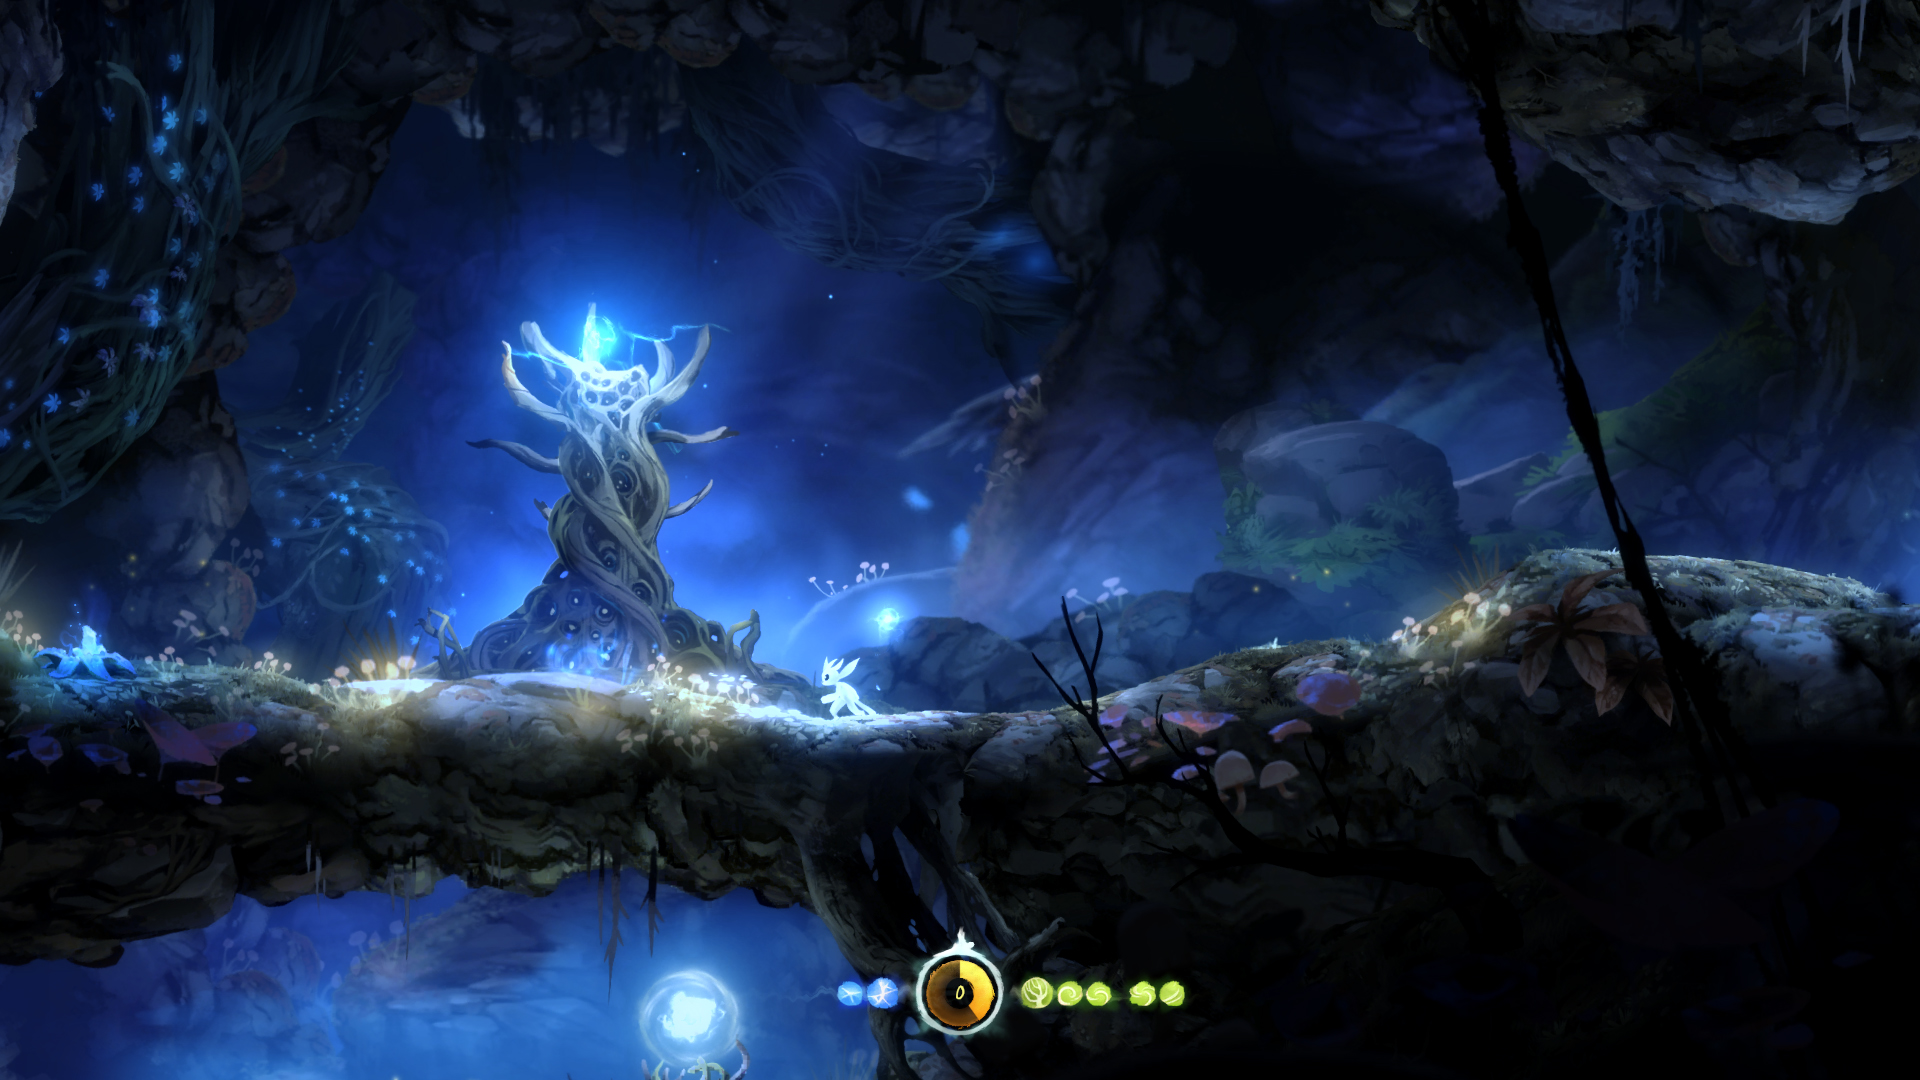
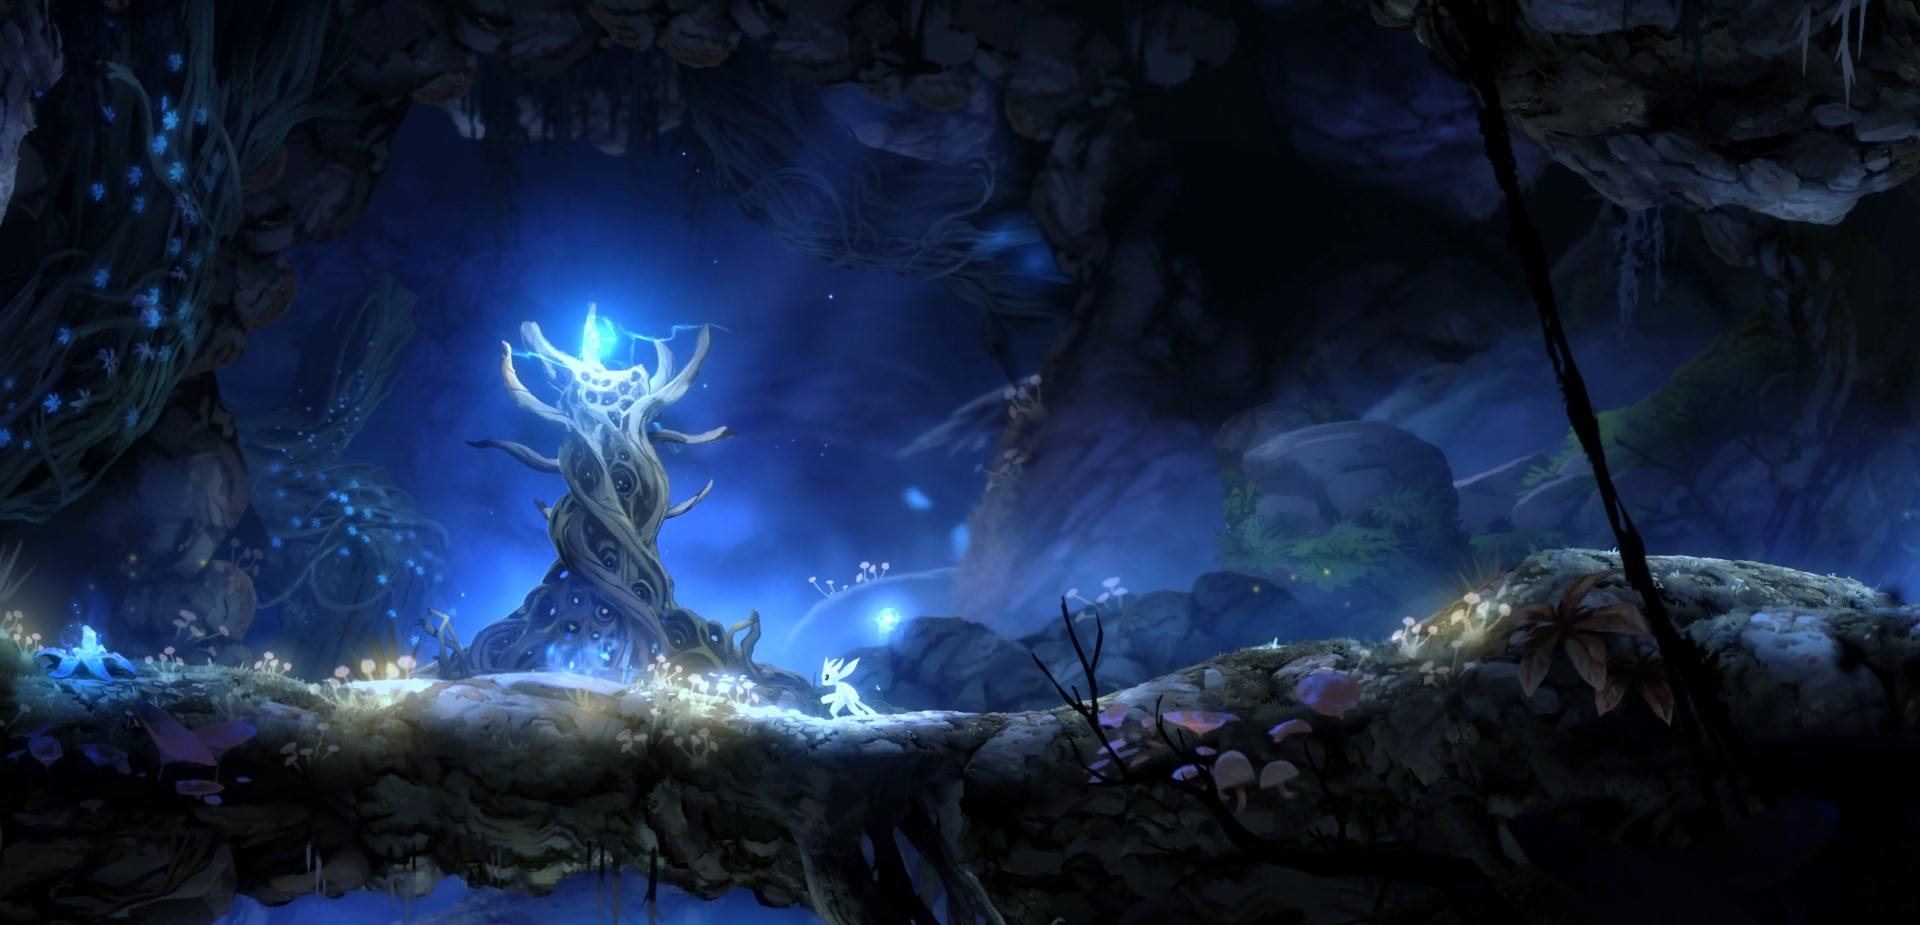
changes!

diff --git a/Sarth-website/public/css/welcome.css b/Sarth-website/public/css/welcome.css
@@ -6,10 +6,11 @@ body {
 
 .body-bg {
   background-color: #140b3a;
+  opacity: 0.8;
 }
 
 .bg-img {
-  background-image: url(../images/homepage.jpg);
+  background-image: url(../images/homepagecrop.jpg);
   background-repeat: no-repeat;
   background-size: cover;
   background-position: center;
@@ -22,7 +23,7 @@ body {
 .navbar-brand {
     color: #fff;
     cursor: pointer;
-}
+} 
 .nav-link {
     margin-right: 1em !important;
     border-bottom:  2px solid transparent;
@@ -35,9 +36,7 @@ body {
 
 .navbar-nav .nav-item {
     padding-right: 5rem;
-}
-
-
+} 
 
 /*                 EXP CAROUSEL                */
 

diff --git a/Sarth-website/resources/views/welcome.blade.php b/Sarth-website/resources/views/welcome.blade.php
@@ -1,107 +1,108 @@
-@extends('layouts.main')
 
-<!-- <link rel="stylesheet" type="text/css" href="{{ asset('../css/css/home.css') }}"> -->
+
 <link rel="stylesheet" href="{{ asset('css/welcome.css') }}">
-
+@extends('layouts.main')
 @section('pageInfo')
-    
 
 <div class="content">
-    <div class="title">
-        <h1>Home!</h1>
+    <div class="bg-img">
+        <br />
+        <br />
+        <main role="main" class="col-md-5 p-lg-5 mx-auto text-center">
+            <h1 style="color: white; font-size:3vw;">Welcome to Sarth!</h1>
+            <p class="lead" style="color: white; font-size: 1.5vw;">Sarth is a game store website, suited to game lovers
+                everywhere!
+                Explore our range
+                of games by clicking the button below.
+            </p>
+            <p class="lead" style="color: white;">
+                <a href="#" onclick="hello()" class="btn btn-lg btn-secondary"
+                style="color: #65b0ff; background-color:white">Shop Now!</a>
+            </p>
+        </main>
+        <div class="body-bg">
+            <div class="featured-products" style="color: white; font-weight: bold; text-align: center;">
+                <br />
+                <h5>Featured Games:</h5>
+            </div>
+            <br />
+            <div id="myCarousel" class="carousel slide" data-bs-ride="carousel">
+                <div class="carousel-inner">
+                    <div class="carousel-item active">
+                        <div class="row" style = "width: 80%; margin: auto;">
+                            <div class="col text-center">
+                                <svg class="fortnite-img" width="140" height="140" xmlns="http://www.w3.org/2000/svg" role="img"></svg>
+                                <h3 class="fw-normal" style="color: white;">Fortnite</h3>
+                                <p>A free-to-play Battle Royale game with numerous game modes for all gamer.</p>
+                            </div>
+                            <div class="col text-center">
+                                <svg class="valorant-img" width="140" height="140" xmlns="http://www.w3.org/2000/svg" role="img"></svg>
+                                <h3 class="fw-normal" style="color: white;">Valorant</h3>
+                                <p>Character-based tactical FPS where precise gunplay meets unique agent abilities.</p>
+                            </div>
+                            <div class="col text-center">
+                                <svg class="overwatch-img" width="140" height="140" xmlns="http://www.w3.org/2000/svg" role="img"></svg>
+                                <h3 class="fw-normal" style="color: white;">Overwatch</h3>
+                                <p>A free-to-play, team-based action game set in the optimistic future.</p>
+                            </div>
+                        </div>
+                    </div>
+                    <div class="carousel-item">
+                        <div class="row" style = "width: 80%; margin: auto;">
+                            <div class="col text-center">
+                                <svg class="lol-img" width="140" height="140" xmlns="http://www.w3.org/2000/svg" role="img"></svg>
+                                <h3 class="fw-normal" style="color: white;">League of Legends</h3>
+                                <p>A team-based multiplayer online battle arena video game.</p>
+                            </div>
+                            <div class="col text-center">
+                                <svg class="fallguys-img" width="140" height="140" xmlns="http://www.w3.org/2000/svg" role="img"></svg>
+                                <h3 class="fw-normal" style="color: white;">Fall Guys</h3>
+                                <p>A free-to-play platform battle royale game where you compete in a series of minigames.</p>
+                            </div>
+                            <div class="col text-center">
+                                <svg class="rocketleague-img" width="140" height="140" xmlns="http://www.w3.org/2000/svg" role="img"></svg>
+                                <h3 class="fw-normal" style="color: white;">Rocket League</h3>
+                                <p>A vehicular, arcade-style soccer game.</p>
+                            </div>
+                        </div>
+                    </div>
+                    <div class="carousel-item">
+                        <div class="row" style = "width: 80%; margin: auto;">
+                            <div class="col text-center">
+                                <svg class="tombraider-img" width="140" height="140" xmlns="http://www.w3.org/2000/svg" role="img"></svg>        
+                                <h3 class="fw-normal" style="color: white;">Shadow of the Tomb Raider</h3>
+                                <p>Action-adventure, story based video game following Lara Croft's expeditions in South America.</p>
+                            </div>
+                            <div class="col text-center">
+                                <svg class="cod-img" width="140" height="140" xmlns="http://www.w3.org/2000/svg" role="img"></svg>
+                                <h3 class="fw-normal" style="color: white;">Call of Duty</h3>
+                                <p>A first-person shooter video game franchise, simulating arms warfare of World War II.</p>
+                            </div>
+                            <div class="col text-center">
+                                <svg class="darksouls-img" width="140" height="140" xmlns="http://www.w3.org/2000/svg" role="img"></svg>
+                                <h3 class="fw-normal" style="color: white;">Dark Souls</h3>
+                                <p>An action-based roleplaying video game franchise, focused on dark fantasy lore.</p>
+                            </div>
+                        </div>
+                    </div>
+                </div>
+                <button class="carousel-control-prev" type="button" data-bs-target="#myCarousel" data-bs-slide="prev" style = "padding-bottom: 90px; background-color: transparent; border-color: transparent;">
+                    <span class="carousel-control-prev-icon" aria-hidden="true"></span>
+                    <span class="visually-hidden"></span>
+                </button>
+                <button class="carousel-control-next" type="button" data-bs-target="#myCarousel" data-bs-slide="next" style = "padding-bottom: 90px; background-color: transparent; border-color: transparent;">
+                    <span class="carousel-control-next-icon" aria-hidden="true"></span>
+                    <span class="visually-hidden"></span>
+                </button>
+                <div class="carousel-indicators">
+                    <button type="button" data-bs-target="#myCarousel" data-bs-slide-to="0" class="active" aria-current="true" aria-label="Slide 1"></button>
+                    <button type="button" data-bs-target="#myCarousel" data-bs-slide-to="1" aria-label="Slide 2"></button>
+                    <button type="button" data-bs-target="#myCarousel" data-bs-slide-to="2" aria-label="Slide 3"></button>
+                </div>
+            </div>
+        </div>
     </div>
-
-    <div id="myCarousel" class="carousel slide" data-bs-ride="carousel">
-      <div class="carousel-indicators">
-        <button type="button" data-bs-target="#myCarousel" data-bs-slide-to="0" class="active" aria-current="true" aria-label="Slide 1"></button>
-        <button type="button" data-bs-target="#myCarousel" data-bs-slide-to="1" aria-label="Slide 2"></button>
-        <button type="button" data-bs-target="#myCarousel" data-bs-slide-to="2" aria-label="Slide 3"></button>
-      </div>
-      <div class="carousel-inner" style = "background-color: #140b3a;">
-        <div class="carousel-item active">
-  
-            <div class="row" style = "width: 80%; margin: auto;">
-              <div class="col text-center">
-                <svg class="fortnite-img" width="140" height="140" xmlns="http://www.w3.org/2000/svg" role="img"></svg>
-      
-                <h3 class="fw-normal" style="color: white;">Fortnite</h3>
-                <p>A free-to-play Battle Royale game with numerous game modes for all gamer.</p>
-              </div>
-              <div class="col text-center">
-                <svg class="valorant-img" width="140" height="140" xmlns="http://www.w3.org/2000/svg" role="img"></svg>
-      
-                <h3 class="fw-normal" style="color: white;">Valorant</h3>
-                <p>Character-based tactical FPS where precise gunplay meets unique agent abilities.</p>
-              </div>
-              <div class="col text-center">
-                <svg class="overwatch-img" width="140" height="140" xmlns="http://www.w3.org/2000/svg" role="img"></svg>
-      
-                <h3 class="fw-normal" style="color: white;">Overwatch</h3>
-                <p>A free-to-play, team-based action game set in the optimistic future.</p>
-              </div>
-            </div>
-           
-        </div>
-        <div class="carousel-item">
-
-          <div class="row" style = "width: 80%; margin: auto;">
-            <div class="col text-center">
-              <svg class="lol-img" width="140" height="140" xmlns="http://www.w3.org/2000/svg" role="img"></svg>
-    
-              <h3 class="fw-normal" style="color: white;">League of Legends</h3>
-              <p>A team-based multiplayer online battle arena video game.</p>
-            </div>
-            <div class="col text-center">
-              <svg class="fallguys-img" width="140" height="140" xmlns="http://www.w3.org/2000/svg" role="img"></svg>
-    
-              <h3 class="fw-normal" style="color: white;">Fall Guys</h3>
-              <p>A free-to-play platform battle royale game where you compete in a series of minigames.</p>
-            </div>
-            <div class="col text-center">
-              <svg class="rocketleague-img" width="140" height="140" xmlns="http://www.w3.org/2000/svg" role="img"></svg>
-    
-              <h3 class="fw-normal" style="color: white;">Rocket League</h3>
-              <p>A vehicular, arcade-style soccer game.</p>
-            </div>
-          </div>
-
-  
-        </div>
-        <div class="carousel-item">
-  
-          <div class="row" style = "width: 80%; margin: auto;">
-            <div class="col text-center">
-              <svg class="tombraider-img" width="140" height="140" xmlns="http://www.w3.org/2000/svg" role="img"></svg>
-    
-              <h3 class="fw-normal" style="color: white;">Shadow of the Tomb Raider</h3>
-              <p>Action-adventure, story based video game following Lara Croft's expeditions in South America.</p>
-            </div>
-            <div class="col text-center">
-              <svg class="cod-img" width="140" height="140" xmlns="http://www.w3.org/2000/svg" role="img"></svg>
-    
-              <h3 class="fw-normal" style="color: white;">Call of Duty</h3>
-              <p>A first-person shooter video game franchise, simulating arms warfare of World War II.</p>
-            </div>
-            <div class="col text-center">
-              <svg class="darksouls-img" width="140" height="140" xmlns="http://www.w3.org/2000/svg" role="img"></svg>
-    
-              <h3 class="fw-normal" style="color: white;">Dark Souls</h3>
-              <p>An action-based roleplaying video game franchise, focused on dark fantasy lore.</p>
-            </div>
-          </div>
-
-        </div>
-      </div>
-      <button class="carousel-control-prev" type="button" data-bs-target="#myCarousel" data-bs-slide="prev" style = "padding-bottom: 90px; background-color: transparent; border-color: transparent;">
-        <span class="carousel-control-prev-icon" aria-hidden="true"></span>
-        <span class="visually-hidden"></span>
-      </button>
-      <button class="carousel-control-next" type="button" data-bs-target="#myCarousel" data-bs-slide="next" style = "padding-bottom: 90px; background-color: transparent; border-color: transparent;">
-        <span class="carousel-control-next-icon" aria-hidden="true"></span>
-        <span class="visually-hidden"></span>
-      </button>
-    </div>
-
+</div>
 
 @endsection
 
